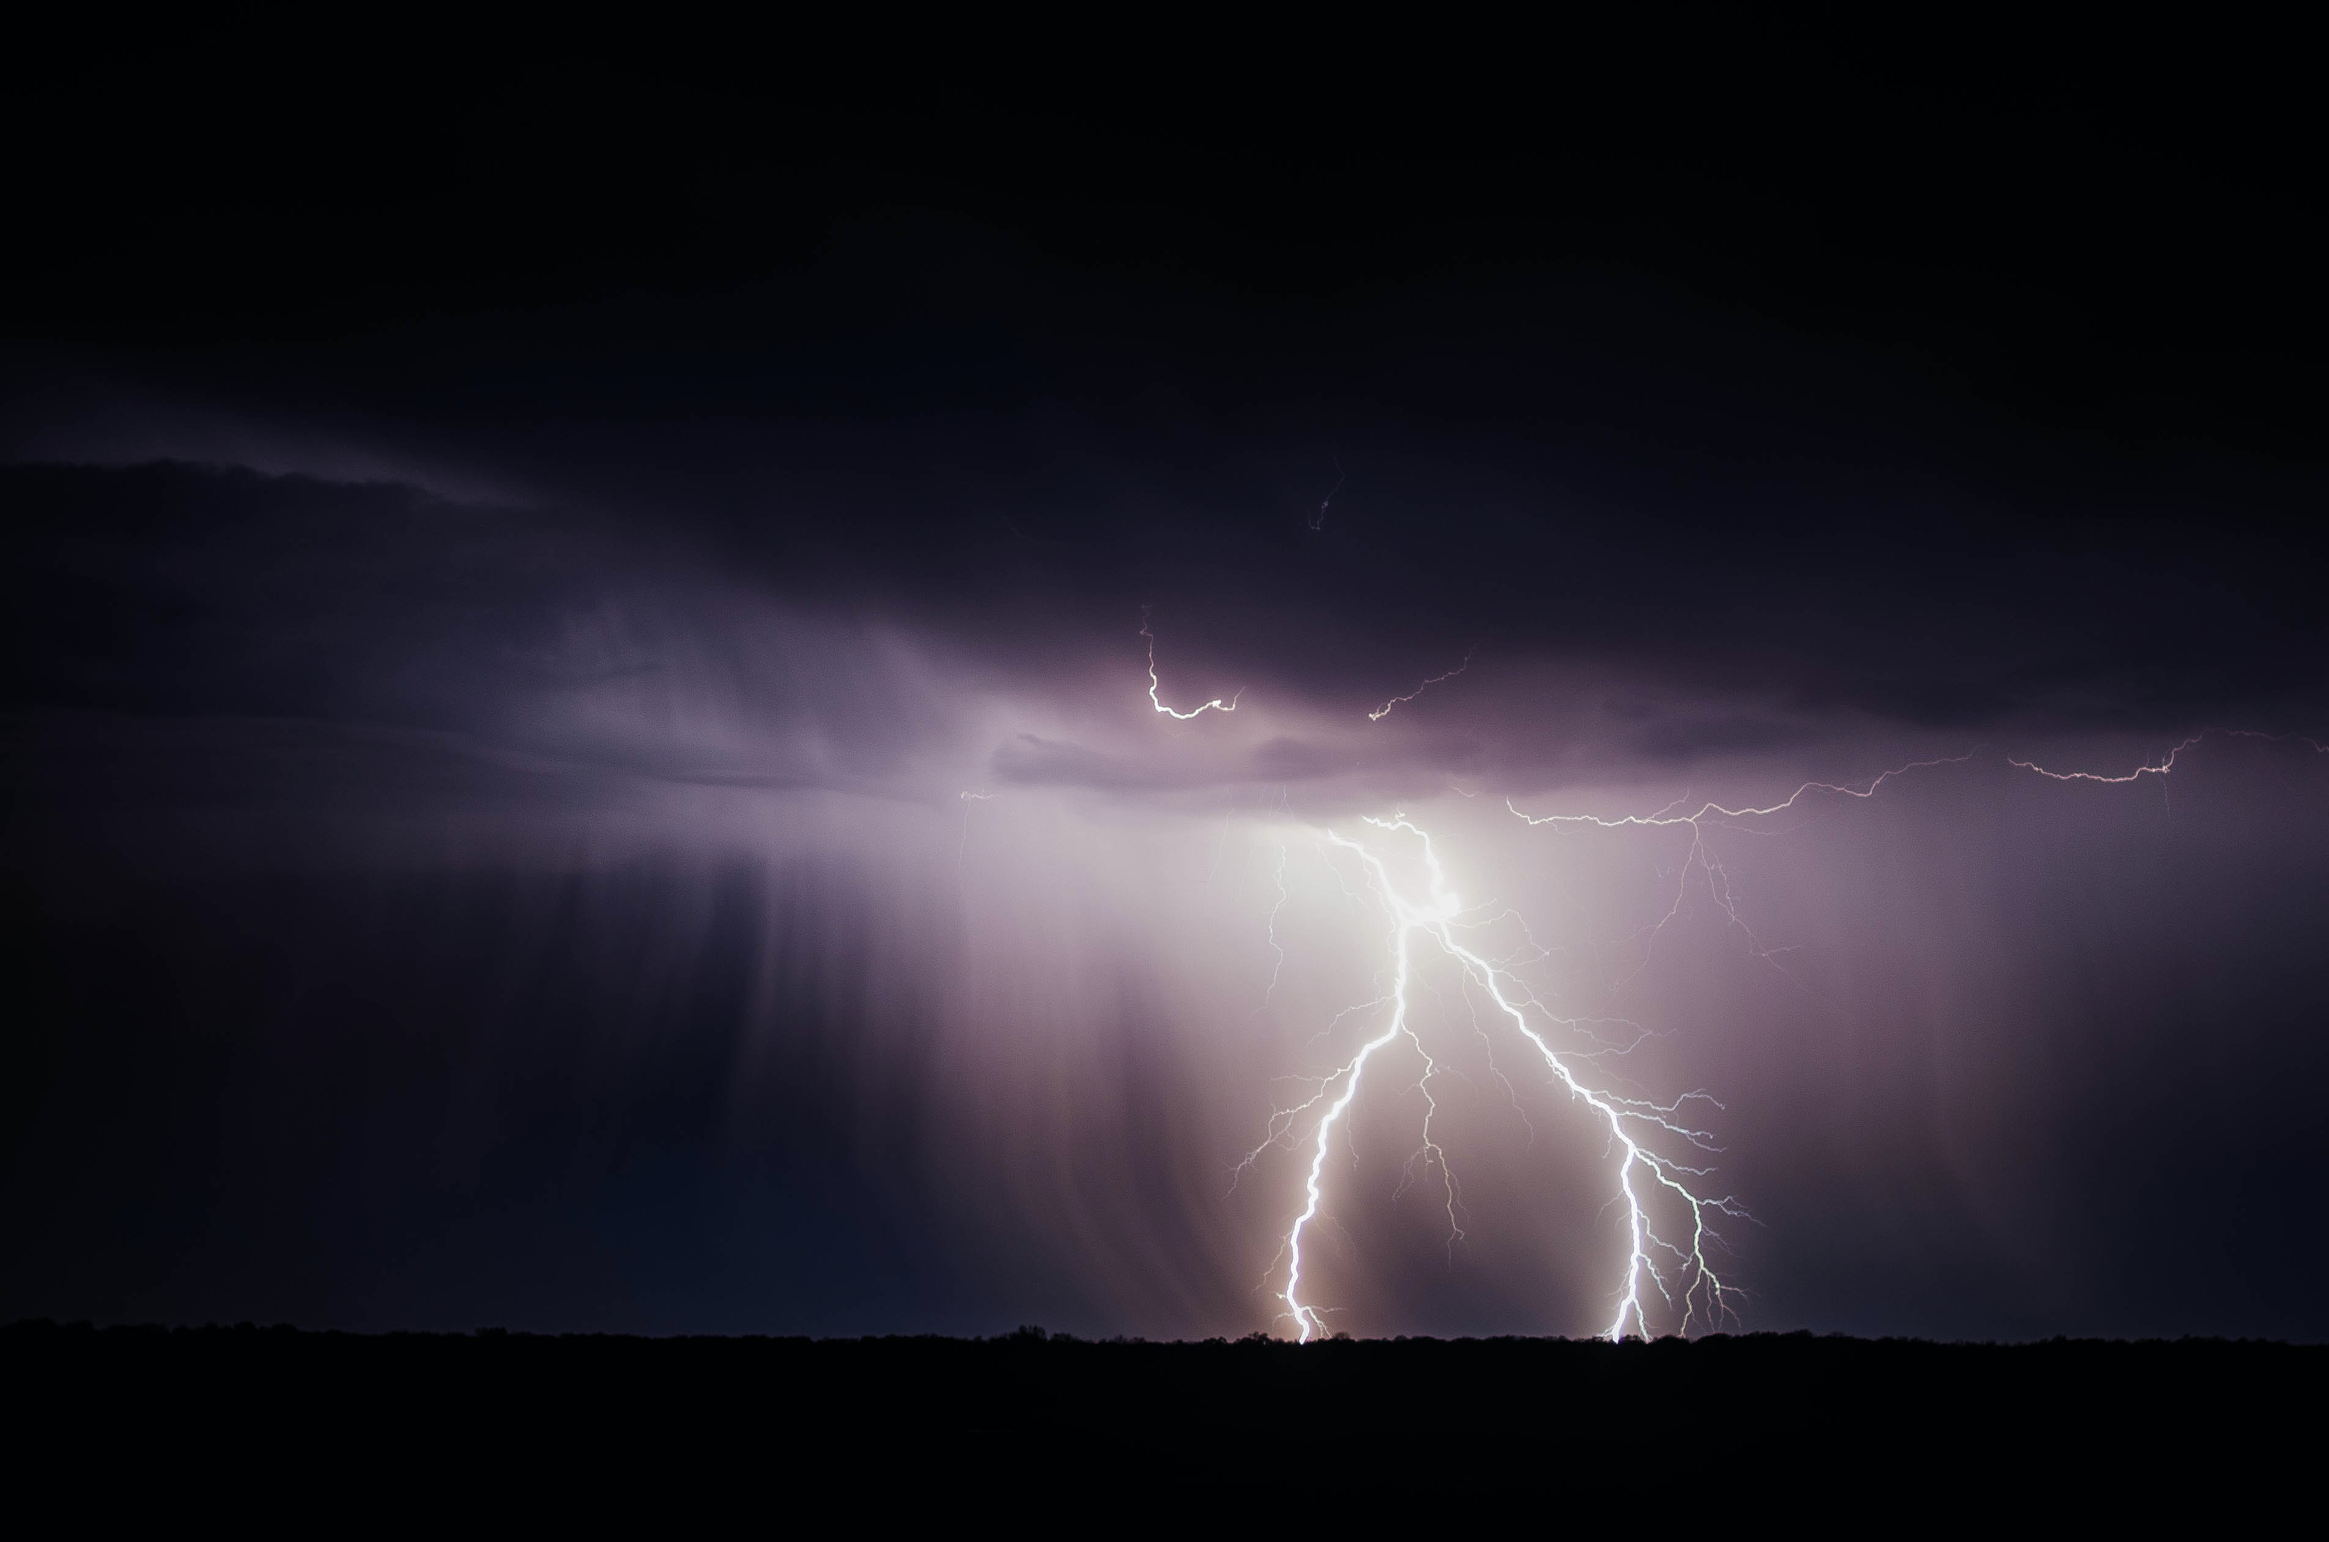
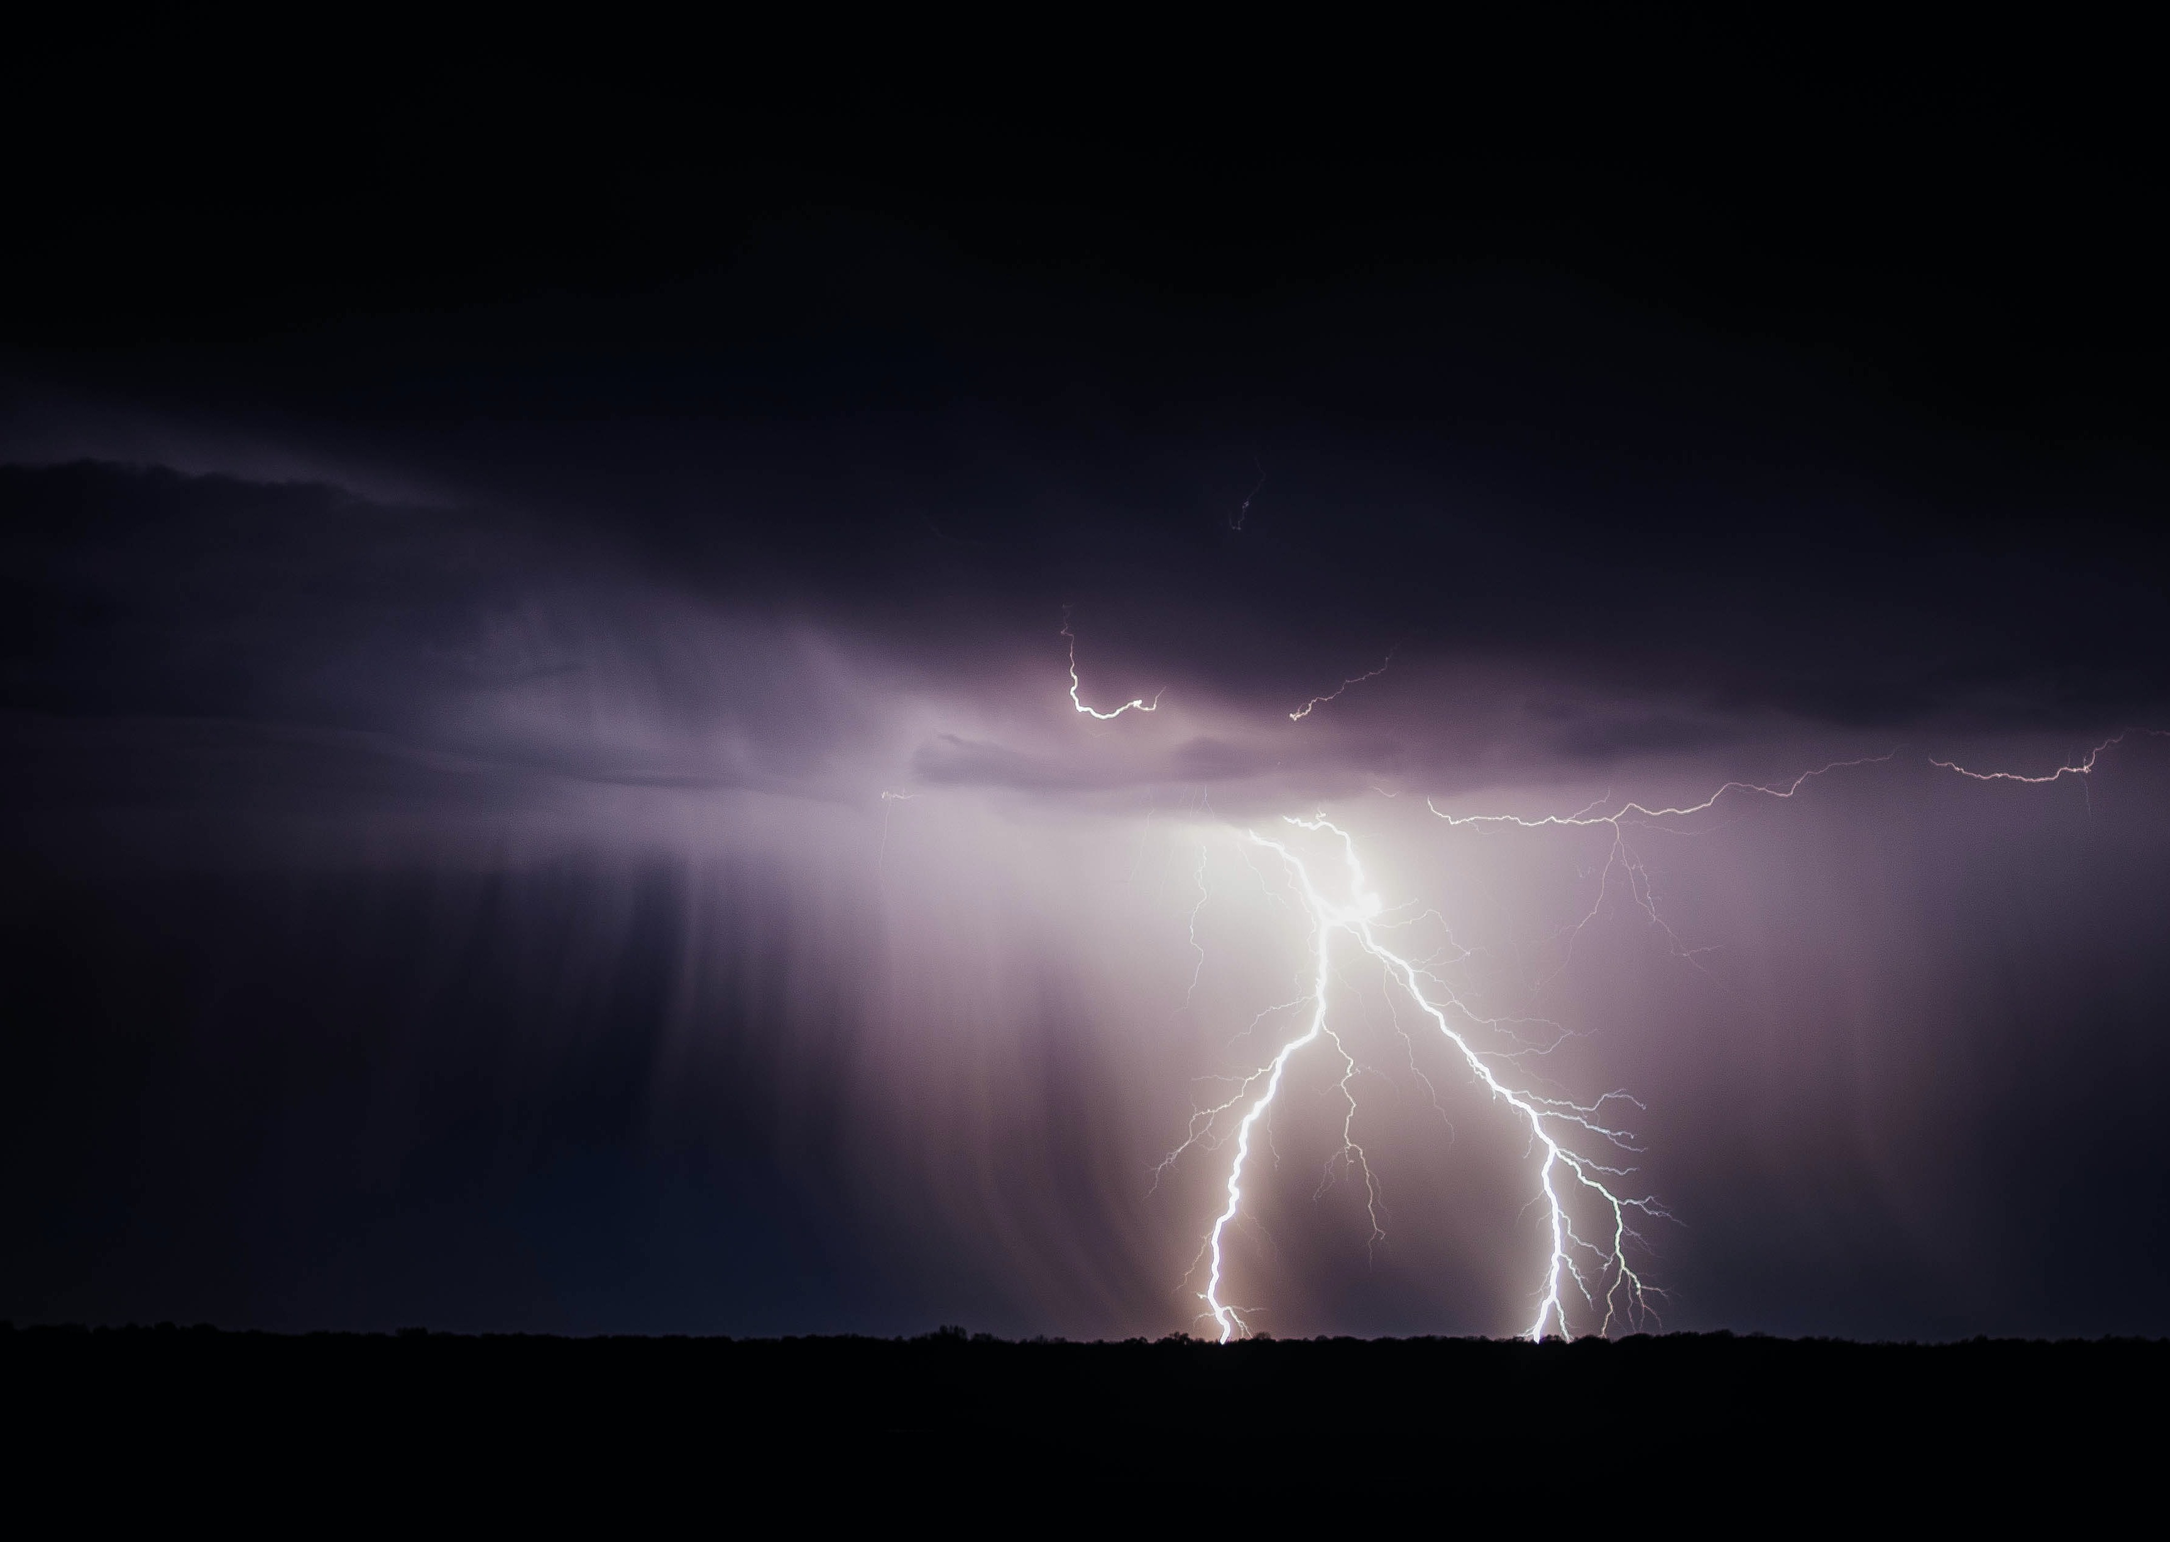
5-day Forecast, background images finished

diff --git a/scripts/app.js b/scripts/app.js
@@ -8,6 +8,9 @@ if (prod.isLive){
 //import {} from "./localStorage.js"
 
 //declare variables from HTML elements
+//bg image
+let backgroundImage = document.getElementById("backgroundImage");
+
 //search bar
 let searchInput = document.getElementById("searchInput");
 let submitBtn = document.getElementById("submitBtn");
@@ -82,6 +85,31 @@ let currentTimeDayOfWeek = EvaluateDayOfWeek(currentTimeData);
 let currentTimeDay = currentTimeData.getDay();
 let currentTimeYear = currentTimeData.getFullYear();
 
+let fiveDayTitle1Var;
+let fiveDayTitle2Var;
+let fiveDayTitle3Var;
+let fiveDayTitle4Var;
+let fiveDayTitle5Var;
+
+let fiveDayImg1Var;
+let fiveDayImg2Var;
+let fiveDayImg3Var;
+let fiveDayImg4Var;
+let fiveDayImg5Var;
+
+let fiveDay1HighVar;
+let fiveDay2HighVar;
+let fiveDay3HighVar;
+let fiveDay4HighVar;
+let fiveDay5HighVar;
+
+let fiveDay1LowVar;
+let fiveDay2LowVar;
+let fiveDay3LowVar;
+let fiveDay4LowVar;
+let fiveDay5LowVar;
+
+
 //geolocation api fetch/call
 async function AsyncLocalWeatherCoords(searchInput){
     locationApiURL = "https://api.openweathermap.org/geo/1.0/direct?q=" + searchInput + "&limit=1" + apiKey;
@@ -112,15 +140,17 @@ async function AsyncLocalWeather(lat, lon){
     currentLoc.textContent = currentCityInfo.name;
     currentTemp.textContent = Math.round(currentCityInfo.main.temp);
     currentWeatherIcon.src = EvaluateWeatherIcon(currentCityInfo.weather[0].icon);
+    backgroundImage.style.backgroundImage = `url("${EvaluateCurrentBackground(currentCityInfo.weather[0].icon)}")`;
     currentWeatherDescription.textContent = currentCityInfo.weather[0].main;
 }
 
 //five day weather forecast fetch/call
 async function AsyncFiveDayWeather(lat, lon){
-    const promise = await fetch(`https://api.openweathermap.org/data/2.5/forecast?lat=${lat}&lon=${lon}${apiKey}&units=imperial"`);
+    const promise = await fetch(`https://api.openweathermap.org/data/2.5/forecast?lat=${lat}&lon=${lon}${apiKey}&units=imperial`);
     const data = await promise.json();
     currentCity5DayInfo = data;
     console.log(currentCity5DayInfo);
+    Parse5DayForecastInfo();
 }
 
 //parsing state names into state codes custom function
@@ -129,7 +159,7 @@ function ParseStateInfo(state){
     switch(state){
         case "Alabama": stateCode = "AL"; break;
         case "Alaska": stateCode = "AK"; break;
-        case "Arizona": stateCode = "AR"; break;
+        case "Arizona": stateCode = "AZ"; break;
         case "Arkansas": stateCode = "AR"; break;
         case "American Samoa": stateCode = "AS"; break;
         case "California": stateCode = "CA"; break;
@@ -199,6 +229,7 @@ function success(position){
     AsyncReverseGeocoding(latitude, longitude);
     AsyncLocalWeather(latitude, longitude);
     EvaluateCurrentTime();
+    AsyncFiveDayWeather(latitude, longitude);
 }
 
 function error(err){
@@ -225,6 +256,7 @@ async function AsyncReverseGeocoding(lat, lon){
     currentState.textContent = currentStateVar;
 }
 
+//totally unnecessary functions that parse date/time data
 function EvaluateDayOfWeek(date){
     let result = "";
     switch(date.getDay()){
@@ -302,6 +334,7 @@ function EvaluateCurrentTime(){
     currentDate.textContent = currentTimeMonth + " " + currentTimeDay + ", " + currentTimeYear;
 }
 
+//function that determines the weather icons used across the website based on API inputs
 function EvaluateWeatherIcon(input){
     let result = "";
     switch(input){
@@ -320,6 +353,219 @@ function EvaluateWeatherIcon(input){
     return result;
 }
 
+//function that determines the background based on the returned API data
+function EvaluateCurrentBackground(input){
+    let result = "";
+    switch(input){
+        case "01d" || "01n": result = "../assets/images/bgImages/sunnyDay.jpg"; break;
+        case "02d" || "02n": result = "../assets/images/bgImages/scatteredClouds.jpg"; break;
+        case "03d" || "03n": result = "../assets/images/bgImages/sunBehindCloud.jpg"; break;
+        case "04d" || "04n": result = "../assets/images/bgImages/cloudy.jpg"; break;
+        case "09d" || "09n": result = "../assets/images/bgImages/sunAndRain.jpg"; break;
+        case "10d" || "10n": result = "../assets/images/bgImages/rainyDay.jpg"; break;
+        case "11d" || "11n": result = "../assets/images/bgImages/thunder.jpg"; break;
+        case "13d" || "13n": result = "../assets/images/bgImages/snow.jpg"; break;
+        case "50d" || "50n": result = "../assets/images/bgImages/fog.jpg"; break;
+        default: result = "../assets/images/bgImages/sunnyDay.jpg"; break;
+    }
+    return result;
+}
+
+//function that does the bulk of processing the 5-Day Weather Forecast data from the 5-Day Forecast API
+function Parse5DayForecastInfo(){
+    //declare arrays to organize and hold the data of different days
+    let sunArr = [];
+    let monArr = [];
+    let tueArr = [];
+    let wedArr = [];
+    let thuArr = [];
+    let friArr = [];
+    let satArr = [];
+
+    //function that will parse date-time info to find the day
+    const dayFormatter = new Intl.DateTimeFormat(undefined, {
+        weekday: 'long',
+    })
+
+    //variable to hold the day of the first data point to reference beginning of 5-day forecast
+    let beginningDate = dayFormatter.format(currentCity5DayInfo.list[0].dt * 1000);
+    fiveDayTitle1Var = beginningDate;
+    console.log(beginningDate);
+
+    //for loop that sorts data into different days
+    for (let i = 0; i < currentCity5DayInfo.list.length; i++){
+        let tempInfo = dayFormatter.format(currentCity5DayInfo.list[i].dt * 1000);
+        if (tempInfo == "Sunday"){
+            sunArr.push(currentCity5DayInfo.list[i]);
+        } else if (tempInfo == "Monday"){
+            monArr.push(currentCity5DayInfo.list[i]);
+        } else if (tempInfo == "Tuesday"){
+            tueArr.push(currentCity5DayInfo.list[i]);
+        } else if (tempInfo == "Wednesday"){
+            wedArr.push(currentCity5DayInfo.list[i]);
+        } else if (tempInfo == "Thursday"){
+            thuArr.push(currentCity5DayInfo.list[i]);
+        } else if (tempInfo == "Friday"){
+            friArr.push(currentCity5DayInfo.list[i]);
+        } else if (tempInfo == "Saturday"){
+            satArr.push(currentCity5DayInfo.list[i]);
+        }
+    }
+
+    //switch statement to determine the order with which each day's information is presented
+    switch (beginningDate){
+        case "Sunday":
+            Process5DayInfoForOutput(sunArr, monArr, tueArr, wedArr, thuArr);
+            break;
+        case "Monday":
+            Process5DayInfoForOutput(monArr, tueArr, wedArr, thuArr, friArr);
+            break;
+        case "Tuesday":
+            Process5DayInfoForOutput(tueArr, wedArr, thuArr, friArr, satArr);
+            break;
+        case "Wednesday":
+            Process5DayInfoForOutput(wedArr, thuArr, friArr, satArr, sunArr);
+            break;
+        case "Thursday":
+            Process5DayInfoForOutput(thuArr, friArr, satArr, sunArr, monArr);
+            break;
+        case "Friday":
+            Process5DayInfoForOutput(friArr, satArr, sunArr, monArr, tueArr);
+            break;
+        case "Saturday":
+            Process5DayInfoForOutput(satArr, sunArr, monArr, tueArr, wedArr);
+            break;
+        default:
+            break;
+    }
+}
+
+//function that processes the information from the 5-day weather forecast and populates the webpage with weather data
+function Process5DayInfoForOutput(arr1, arr2, arr3, arr4, arr5){
+    const dayFormatter = new Intl.DateTimeFormat(undefined, {
+        weekday: 'long',
+    })
+    fiveDayTitle1Var = dayFormatter.format(arr1[0].dt * 1000);
+    fiveDayTitle2Var = dayFormatter.format(arr2[0].dt * 1000);
+    fiveDayTitle3Var = dayFormatter.format(arr3[0].dt * 1000);
+    fiveDayTitle4Var = dayFormatter.format(arr4[0].dt * 1000);
+    fiveDayTitle5Var = dayFormatter.format(arr5[0].dt * 1000);
+
+    fiveDayTitle1.textContent = fiveDayTitle1Var;
+    fiveDayTitle2.textContent = fiveDayTitle2Var;
+    fiveDayTitle3.textContent = fiveDayTitle3Var;
+    fiveDayTitle4.textContent = fiveDayTitle4Var;
+    fiveDayTitle5.textContent = fiveDayTitle5Var;
+
+    fiveDayImg1Var = Determine5DayIcons(arr1);
+    fiveDayImg2Var = Determine5DayIcons(arr2);
+    fiveDayImg3Var = Determine5DayIcons(arr3);
+    fiveDayImg4Var = Determine5DayIcons(arr4);
+    fiveDayImg5Var = Determine5DayIcons(arr5);
+
+    fiveDayImg1.src = EvaluateWeatherIcon(fiveDayImg1Var);
+    fiveDayImg2.src = EvaluateWeatherIcon(fiveDayImg2Var);
+    fiveDayImg3.src = EvaluateWeatherIcon(fiveDayImg3Var);
+    fiveDayImg4.src = EvaluateWeatherIcon(fiveDayImg4Var);
+    fiveDayImg5.src = EvaluateWeatherIcon(fiveDayImg5Var);
+
+    fiveDay1HighVar = FindHighTemp(arr1);
+    fiveDay2HighVar = FindHighTemp(arr2);
+    fiveDay3HighVar = FindHighTemp(arr3);
+    fiveDay4HighVar = FindHighTemp(arr4);
+    fiveDay5HighVar = FindHighTemp(arr5);
+
+    fiveDay1High.textContent = FindHighTemp(arr1);
+    fiveDay2High.textContent = FindHighTemp(arr2);
+    fiveDay3High.textContent = FindHighTemp(arr3);
+    fiveDay4High.textContent = FindHighTemp(arr4);
+    fiveDay5High.textContent = FindHighTemp(arr5);
+
+    fiveDay1LowVar = FindLowTemp(arr1);
+    fiveDay2LowVar = FindLowTemp(arr2);
+    fiveDay3LowVar = FindLowTemp(arr3);
+    fiveDay4LowVar = FindLowTemp(arr4);
+    fiveDay5LowVar = FindLowTemp(arr5);
+
+    fiveDay1Low.textContent = FindLowTemp(arr1);
+    fiveDay2Low.textContent = FindLowTemp(arr2);
+    fiveDay3Low.textContent = FindLowTemp(arr3);
+    fiveDay4Low.textContent = FindLowTemp(arr4);
+    fiveDay5Low.textContent = FindLowTemp(arr5);
+}
+
+//function to find which dataset represents the highest temp
+function FindHighTemp(arr){
+    let result = arr[0].main.temp;
+    for (let i = 0; i < arr.length; i++){
+        if (arr[i].main.temp > result) {
+            result = arr[i].main.temp;
+        }
+    }
+    return Math.round(result);
+}
+
+//function to find which dataset represents the lowest temp
+function FindLowTemp(arr){
+    let result = arr[0].main.temp;
+    for (let i = 0; i < arr.length; i++){
+        if (arr[i].main.temp < result) {
+            result = arr[i].main.temp;
+        }
+    }
+    return Math.round(result);
+}
+
+//function to determine which weather icon should represent a day in the 5-day forcast
+function Determine5DayIcons(arr){
+    let result = arr[0].weather[0].icon;
+    for (let i = 0; i < arr.length; i++){
+        switch(arr[i].weather[0].icon){
+            case "13d" || "13n":
+                result = "13d";
+                break;
+            case "11d" || "11n": 
+                if (result != "13d" || result != "13n"){
+                    result = "11d";
+                }
+                break;
+            case "10d" || "10n":
+                if (result != "13d" || result != "13n" || result != "11d" || result != "11n"){
+                    result = "10d";
+                } 
+                break;
+            case "50d" || "50n": 
+                if (result != "13d" || result != "13n" || result != "11d" || result != "11n" || result != "10d" || result != "10n"){
+                    result = "50d";
+                }
+                break;
+            case "09d" || "09n":
+                if (result != "13d" || result != "13n" || result != "11d" || result != "11n" || result != "10d" || result != "10n" || result != "50d" || result != "50n"){
+                    result = "09d";
+                }
+                break;
+            case "04d" || "04n":
+                if (result != "13d" || result != "13n" || result != "11d" || result != "11n" || result != "10d" || result != "10n" || result != "50d" || result != "50n" || result != "09d" || result != "09n"){
+                    result = "04d";
+                }
+                break;
+            case "03d" || "03n": 
+                if (result != "13d" || result != "13n" || result != "11d" || result != "11n" || result != "10d" || result != "10n" || result != "50d" || result != "50n" || result != "09d" || result != "09n" || result != "04d" || result != "04n"){
+                    result = "03d";
+                }
+                break;
+            case "02d" || "02n":
+                if (result != "13d" || result != "13n" || result != "11d" || result != "11n" || result != "10d" || result != "10n" || result != "50d" || result != "50n" || result != "09d" || result != "09n" || result != "04d" || result != "04n" || result != "03d" || result != "03n"){
+                    result = "02d";
+                }
+                break;
+            default: 
+                result = "01d"; 
+                break;
+        }
+    }
+    return result;
+}
 
 //event listeners
 submitBtn.addEventListener("click", function(){

diff --git a/index.html b/index.html
@@ -19,11 +19,11 @@
     <link href="https://fonts.googleapis.com/css2?family=Inter&display=swap" rel="stylesheet">
 </head>
 
-<body>
+<body id="backgroundImage">
     <!-- *~*~*~*~*~*~*~*~*~*~*~* MAIN BODY BEGINS *~*~*~*~*~*~*~*~*~*~*~* -->
     <div class="container-fluid">
         <div class="row">
-            <div class="col-7">
+            <div class="col-7" style="height: 1024px;">
                 <!-- *~*~*~*~*~*~*~*~*~*~*~* LEFT SIDE/CURRENT TEMP BEGINS *~*~*~*~*~*~*~*~*~*~*~* -->
                 <div class="container-fluid">
                     

diff --git a/css/style.css b/css/style.css
@@ -3,8 +3,7 @@ body{
     background-image: url(../assets/images/bgImages/snow.jpg);
     background-size: cover;
     background-repeat: no-repeat;
-    background-color: grey;
-    /* max-width: 1440px; */
+    background-color: rgb(20, 20, 20);
 }
 
 .pg-title{
